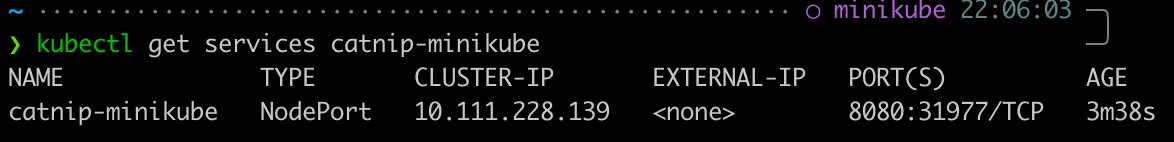
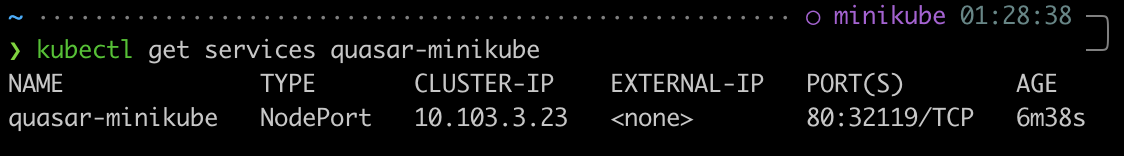
docs: 01 minikube start readme.md 수정

diff --git a/container/k8s/minikube/01_minikube_start/README.md b/container/k8s/minikube/01_minikube_start/README.md
@@ -59,6 +59,13 @@ kubectl get po -A
 ![ms_03](./images/ms_03.png)
 
 ```zsh
+# minikube 리소스 목록에서 모든 pod 정보 확인 
+minikube kubectl -- get po -A
+```
+
+![ms_00](./images/ms_00.png)
+
+```zsh
 # Dashboard 지원
 minikube dashboard
 ```
@@ -68,43 +75,42 @@ minikube dashboard
 #### 4. Deploy applications
 
 ```zsh
-# Sample Deployment 생성 / 8080 port 
-kubectl create deployment catnip-minikube --image=kjhun/catnip
-kubectl expose deployment catnip-minikube --type=NodePort --port=8080
+# Sample Deployment 생성 / 80 port 
+kubectl create deployment quasar-minikube --image=kjhun/quasar-docker:0.0.1
+kubectl expose deployment quasar-minikube --type=NodePort --port=80
 ```
 
 ![ms_05](./images/ms_05.png)
 
 ```zsh
 # catnip-minikube Deployment 실행 확인 
-kubectl get services catnip-minikube
+kubectl get services quasar-minikube
 ```
 
 ![ms_06](./images/ms_06.png)
 
 ```zsh
 # minikube로 웹 브라우저 실행
-minikube service catnip-minikube
+minikube service quasar-minikube
 ```
 
 ![ms_07](./images/ms_07.png)
 
 ```zsh
 # kubectl을 사용하요 포트포워딩 
-kubectl port-forward service/catnip-minikube 7080:8080
+kubectl port-forward service/quasar-minikube 9080:80
 ```
 
 ![ms_08](./images/ms_08.png)
 
-<http://localhost:7080/>
-![ms_09](./images/ms_09.png)
+<http://localhost:9080/>
 
-❓an error occurred forwarding 7080 ... 🤔
+![ms_09](./images/ms_09.png)
 
 ```zsh
 # LoadBalancer Deployment
 kubectl create deployment balanced --image=k8s.gcr.io/echoserver:1.4
-kubectl expose deployment balanced --type=LoadBalancer --port=8080
+kubectl expose deployment balanced --type=LoadBalancer --port=80
 ```
 
 ![ms_10](./images/ms_10.png)
@@ -121,7 +127,7 @@ minikube tennel
 kubectl get services balanced
 ```
 
-*EXTERNAL-IP:8080 에서 Deployment 사용가능*
+*EXTERNAL-IP:9080 에서 Deployment 사용가능*
 ![ms_12](./images/ms_12.png)
 
 #### 5. Cluster 관리
